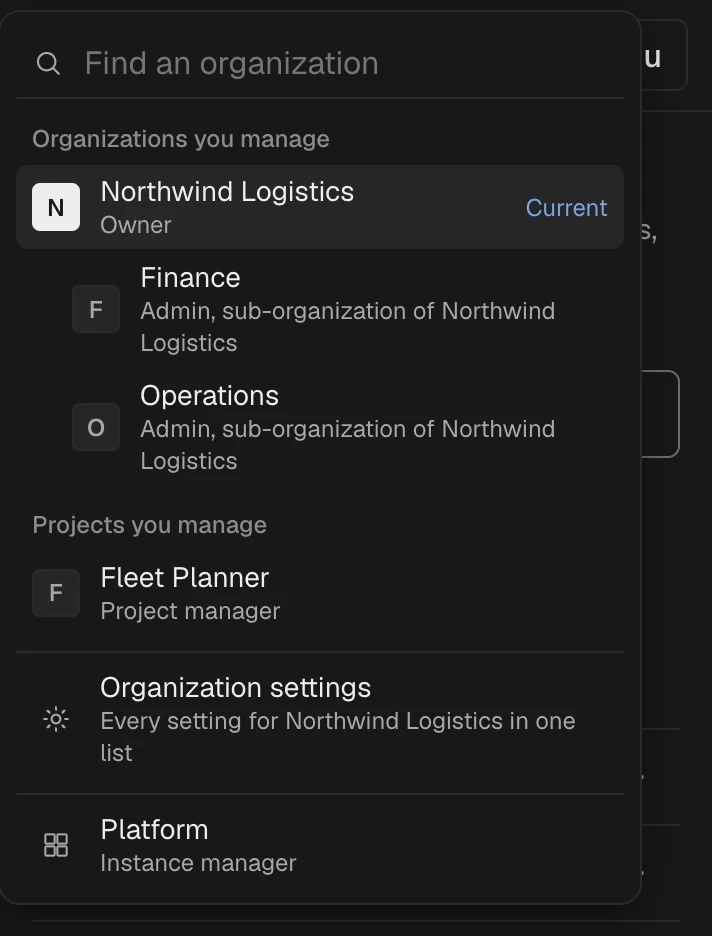
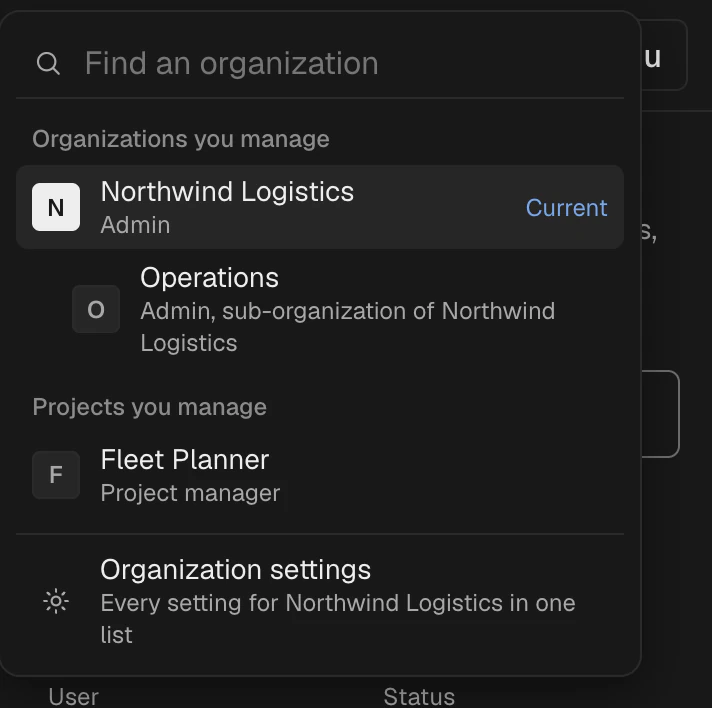
fix(site): 用非 instance manager 的组织管理员重拍 Console 作用域切换截图
换用只有组织 admin 与项目管理员身份的演示账号，Platform 入口自然不出现，不再依赖首页框高裁掉。按原裁切与 2x 比例拍浅色和深色，更新清单尺寸与首页框高。

diff --git a/apps/site/src/lib/product-shots.ts b/apps/site/src/lib/product-shots.ts
@@ -64,10 +64,10 @@ const ENTRIES: readonly ShotEntry[] = [
   ['console-directory-sync-694-dark-en', 'directorySync', 694, 1388, 544],
   ['console-directory-sync-356-light-en', 'directorySync', 356, 712, 1222],
   ['console-directory-sync-356-dark-en', 'directorySync', 356, 712, 1222],
-  ['console-scope-switcher-1320-light-en', 'scopeSwitcher', 1320, 1292, 1038],
-  ['console-scope-switcher-1320-dark-en', 'scopeSwitcher', 1320, 1292, 1038],
-  ['console-scope-switcher-356-light-en', 'scopeSwitcher', 356, 712, 936],
-  ['console-scope-switcher-356-dark-en', 'scopeSwitcher', 356, 712, 936],
+  ['console-scope-switcher-1320-light-en', 'scopeSwitcher', 1320, 1292, 810],
+  ['console-scope-switcher-1320-dark-en', 'scopeSwitcher', 1320, 1292, 810],
+  ['console-scope-switcher-356-light-en', 'scopeSwitcher', 356, 712, 708],
+  ['console-scope-switcher-356-dark-en', 'scopeSwitcher', 356, 712, 708],
   ['console-metrics-766-light-en', 'metrics', 766, 1532, 300],
   ['console-metrics-766-dark-en', 'metrics', 766, 1532, 300],
 ]
